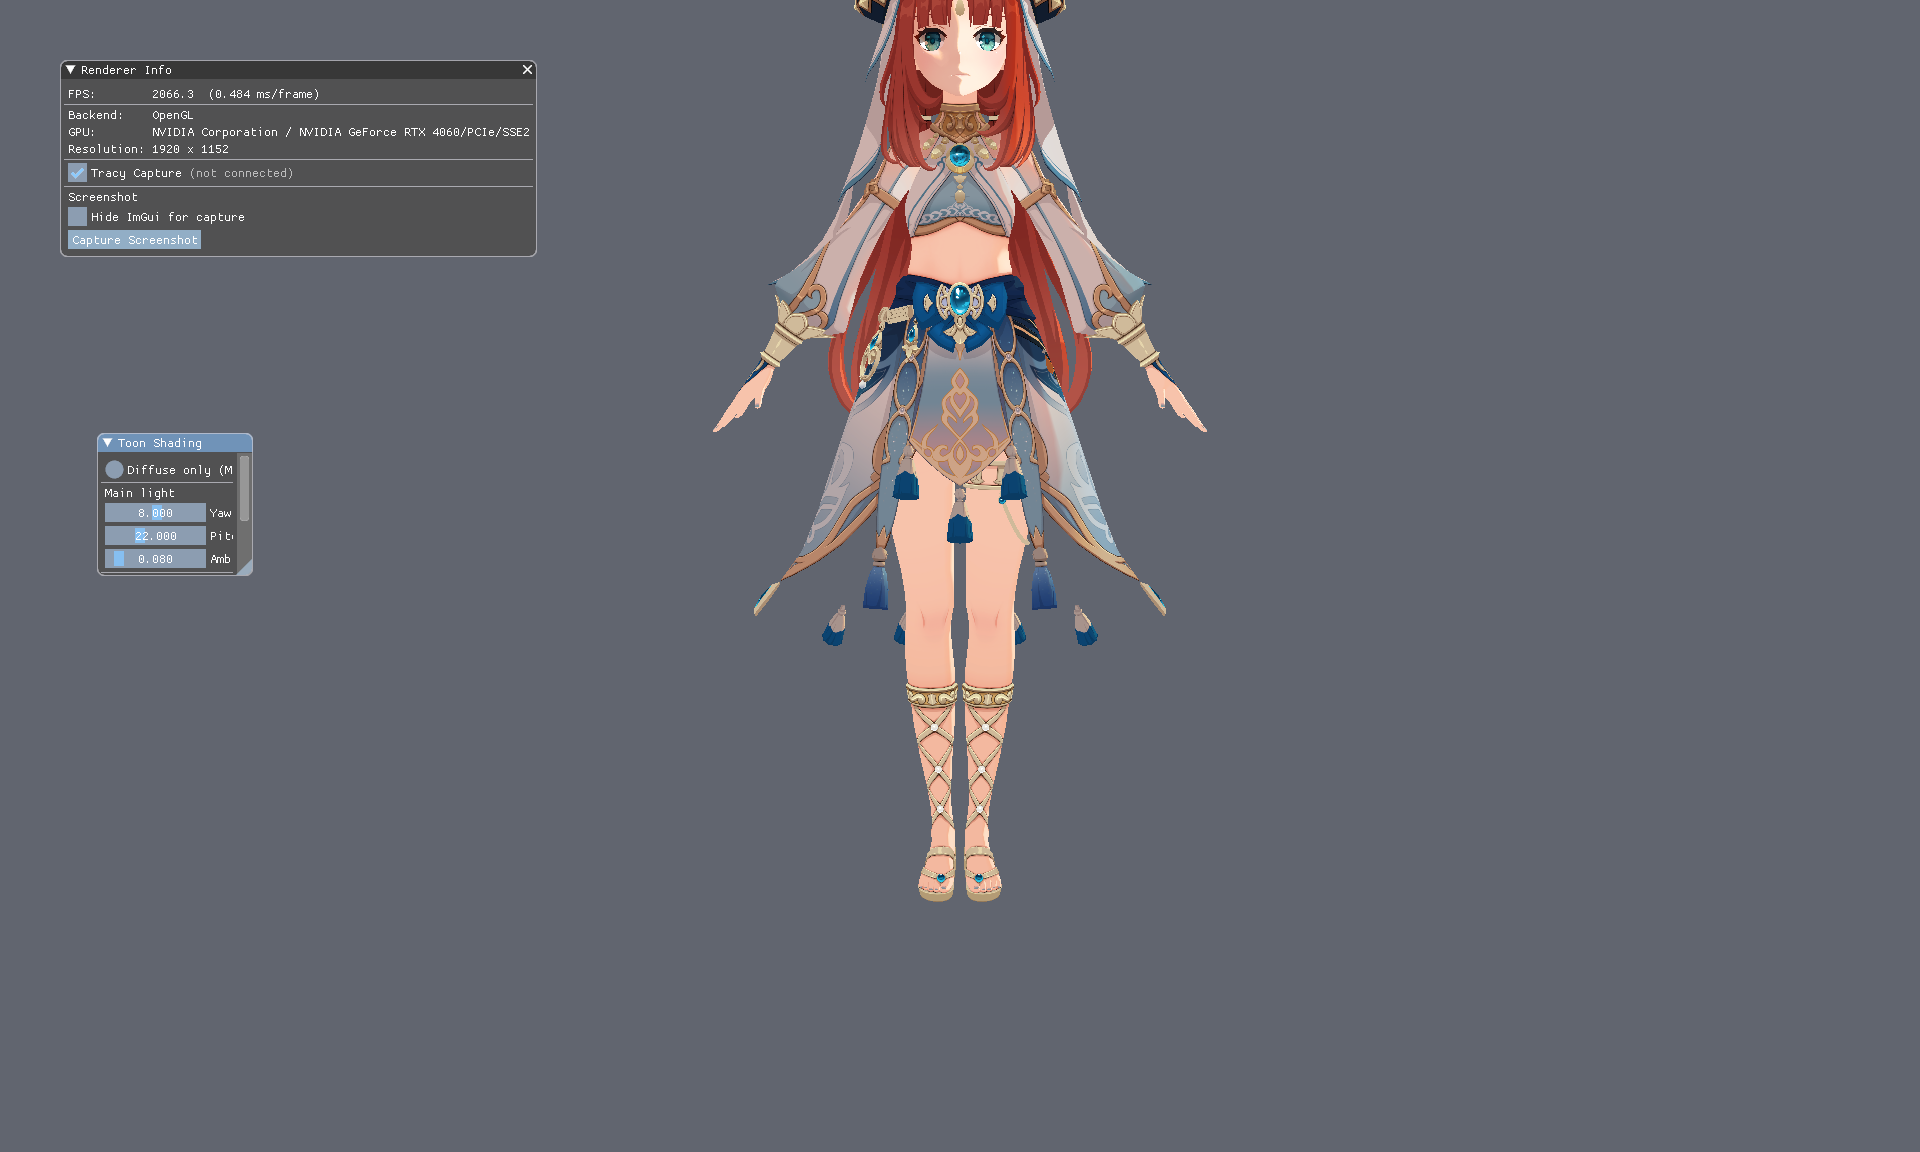
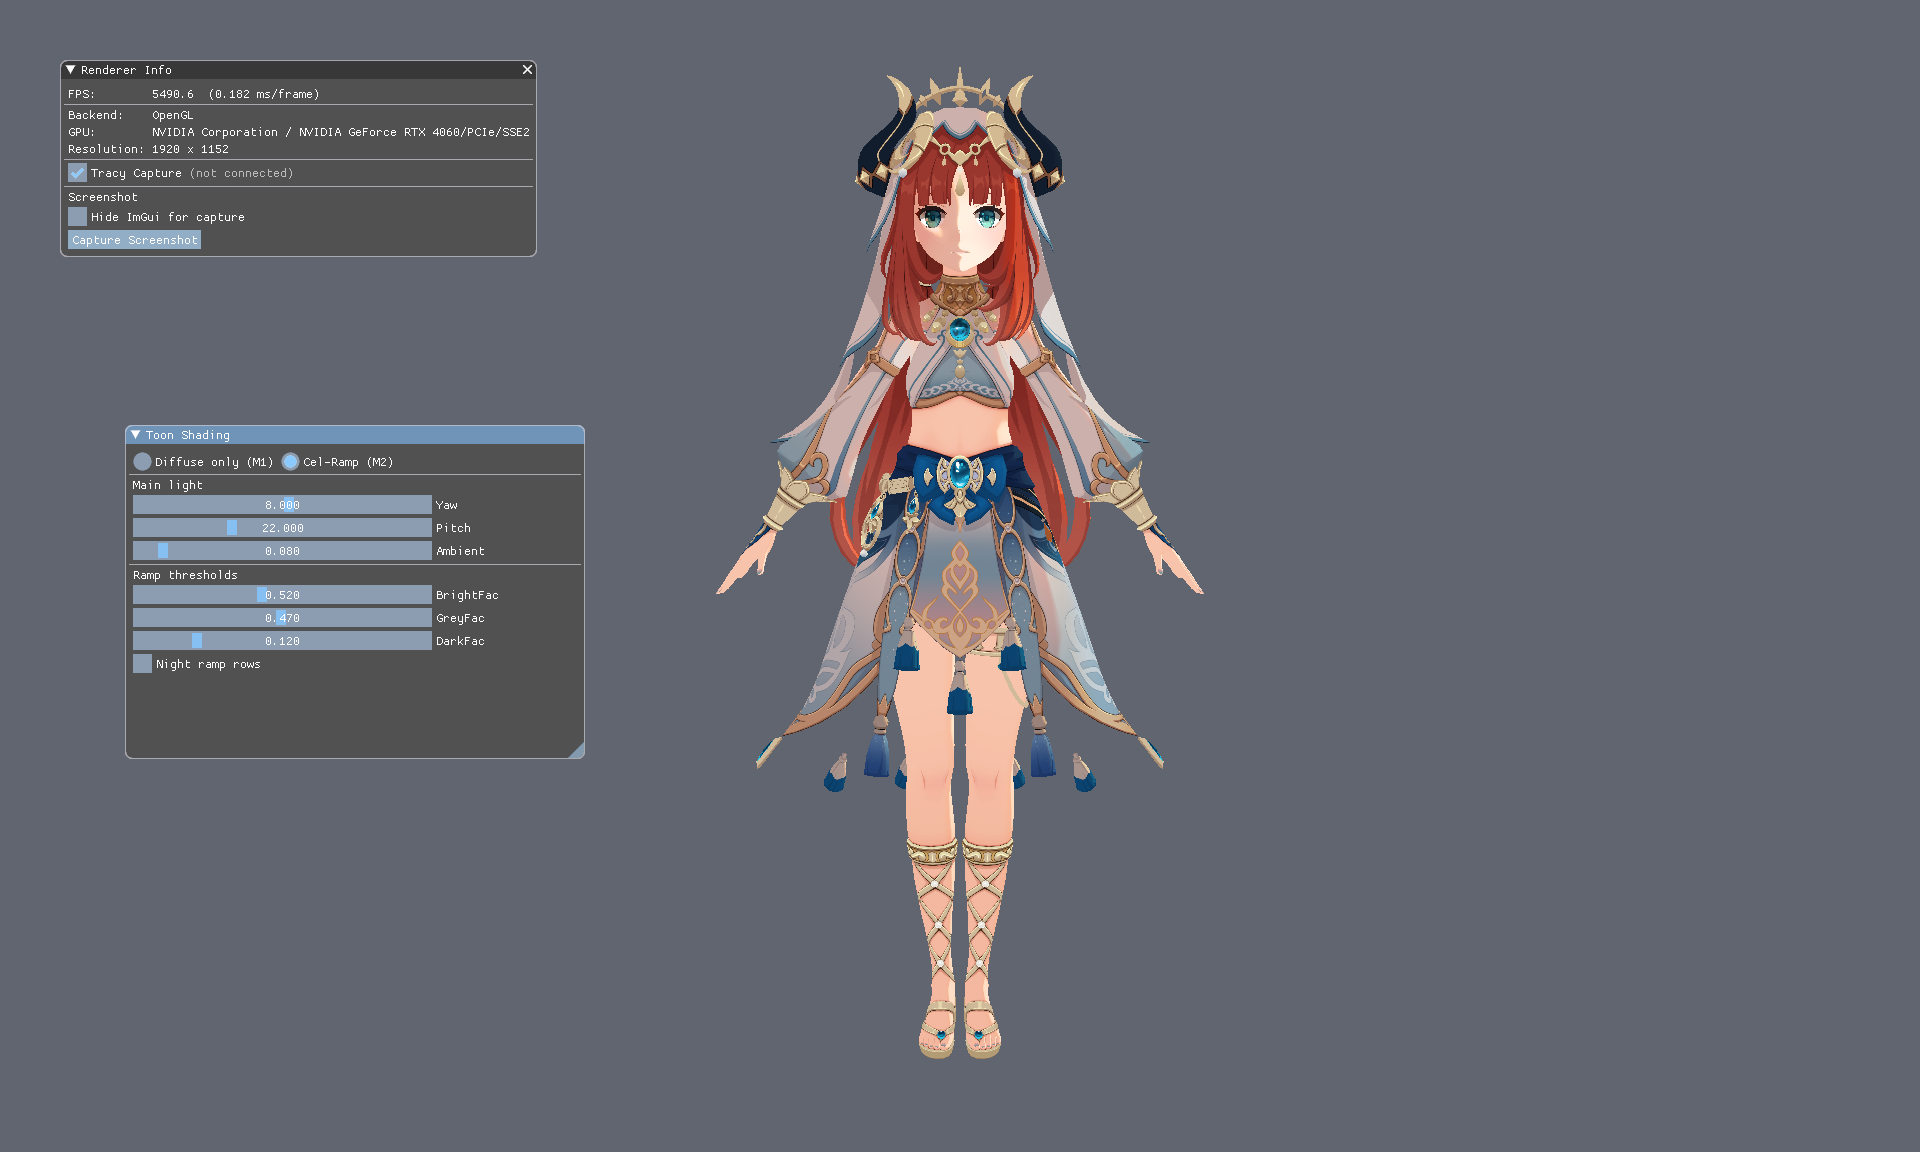
docs: refresh 000/003 READMEs and recapture 003 results

Changed region(s): [[0.375, 0.0, 0.625, 0.9375], [0.0312, 0.3438, 0.3125, 0.6562]]

diff --git a/003_Toon_Shading/main.cpp b/003_Toon_Shading/main.cpp
@@ -9,6 +9,7 @@
 // 默认 OpenGL，`--backend=vk` 可切 Vulkan。
 // ============================================================================
 #include <cstdio>
+#include <cstring>
 #include <memory>
 #include <string>
 
@@ -41,6 +42,22 @@ int main(int argc, char** argv)
     APP::ParseCommandLine(argc, argv);
     if (APP::GetBackend() == GBackend::Unknown)
         APP::SetBackend(GBackend::OpenGL);
+
+    ToonTechnique startMode = ToonTechnique::CelRamp;
+    for (int i = 1; i < argc; ++i)
+    {
+        const char* a = argv[i];
+        if (std::strncmp(a, "--mode=", 7) != 0)
+            continue;
+        const char* v = a + 7;
+        if (std::strcmp(v, "diffuse") == 0 || std::strcmp(v, "DiffuseOnly") == 0)
+            startMode = ToonTechnique::DiffuseOnly;
+        else if (std::strcmp(v, "celramp") == 0 || std::strcmp(v, "CelRamp") == 0)
+            startMode = ToonTechnique::CelRamp;
+        else
+            LOG_STREAM_ERROR(kLog) << "Unknown --mode value: " << v
+                << " (expected diffuse|celramp)";
+    }
     const char* backendName =
         (APP::GetBackend() == GBackend::OpenGL) ? "OpenGL" :
         (APP::GetBackend() == GBackend::Vulkan) ? "Vulkan" : "Null";
@@ -106,7 +123,7 @@ int main(int argc, char** argv)
 
     {
         CAMERA::FlyCameraConfig cfg{};
-        cfg.position  = TitusMath::Vec3{0.0f, 1.05f, 3.4f};
+        cfg.position  = TitusMath::Vec3{0.0f, 1.35f, 3.4f};
         cfg.yawDeg    = -90.0f;
         cfg.pitchDeg  = -8.0f;
         cfg.fovDeg    = 35.0f;
@@ -121,6 +138,7 @@ int main(int argc, char** argv)
     {
         Scene scene(modelHandle, modelMatrix);
         TechniqueContext techniqueCtx;
+        techniqueCtx.mode = startMode;
         auto toonPass = std::make_shared<ToonPass>();
         toonPass->SetScene(&scene);
         toonPass->SetContext(&techniqueCtx);

diff --git a/003_Toon_Shading/README.md b/003_Toon_Shading/README.md
@@ -1,15 +1,39 @@
 # 003 — Toon Shading
 
+妮露 Diffuse Only 与 Cel-Ramp。
+
 ## 编译与启动
+
 在仓库任意目录执行：
+
 - 编译：`003_Toon_Shading\Build\build_debug.bat`
 - 运行：`003_Toon_Shading\Build\run_debug.bat`
 - 可选：`run_debug.bat --backend=vk`
+- 可选：`run_debug.bat --mode=diffuse` 或 `--mode=celramp`（默认 Cel-Ramp）
+
+## 测试条件
+
+| 项 | 值 |
+| --- | --- |
+| GPU | NVIDIA GeForce RTX 4060 |
+| 后端 | OpenGL（`--backend=gl`，Debug 构建） |
+| 分辨率 | 1920 × 1152 |
+| 场景 | Nilou，AABB `(-0.42, -0.01, -0.35)` ~ `(0.42, 1.63, 0.26)`，贴地后身高约 1.8 m |
+| 相机 | 位置 `(0, 1.35, 3.4)`，yaw `-90°`，pitch `-8°`，FOV `35°`，near `0.05`，far `40` |
+| 主光 | yaw `8°`，pitch `22°`，ambient `0.08` |
+| Ramp | bright `0.52` / grey `0.47` / dark `0.12`，日间行 |
 
 ## 包含的算法
-- Diffuse Only
-- Cel Ramp
+
+- **Diffuse Only**：只采样漫反射贴图，不走半 Lambert / Ramp。
+- **Cel-Ramp**：半 Lambert × ilm 采 Shadow Ramp，分亮 / 灰 / 暗三档。
 
 ## 算法结果
+
+**Diffuse Only**
+
 ![Diffuse Only](Result/DiffuseOnly.png)
+
+**Cel-Ramp**
+
 ![Cel Ramp](Result/CelRamp.png)

diff --git a/000_Forward_Deferred_ForwardPlus/README.md b/000_Forward_Deferred_ForwardPlus/README.md
@@ -1,6 +1,6 @@
 # 000 — Forward / Deferred / Clustered Forward
 
-同一场景、同一套灯、同一套 BRDF 下三种着色算法的开销对比。截图取自 2026-08-16 20:30 的同一次运行，期间只切换 ImGui 面板的 Shading Technique，相机与灯参数未动。
+同一场景、同一套灯、同一套 BRDF 下三种着色算法的开销对比。
 
 ## 编译与启动
 
